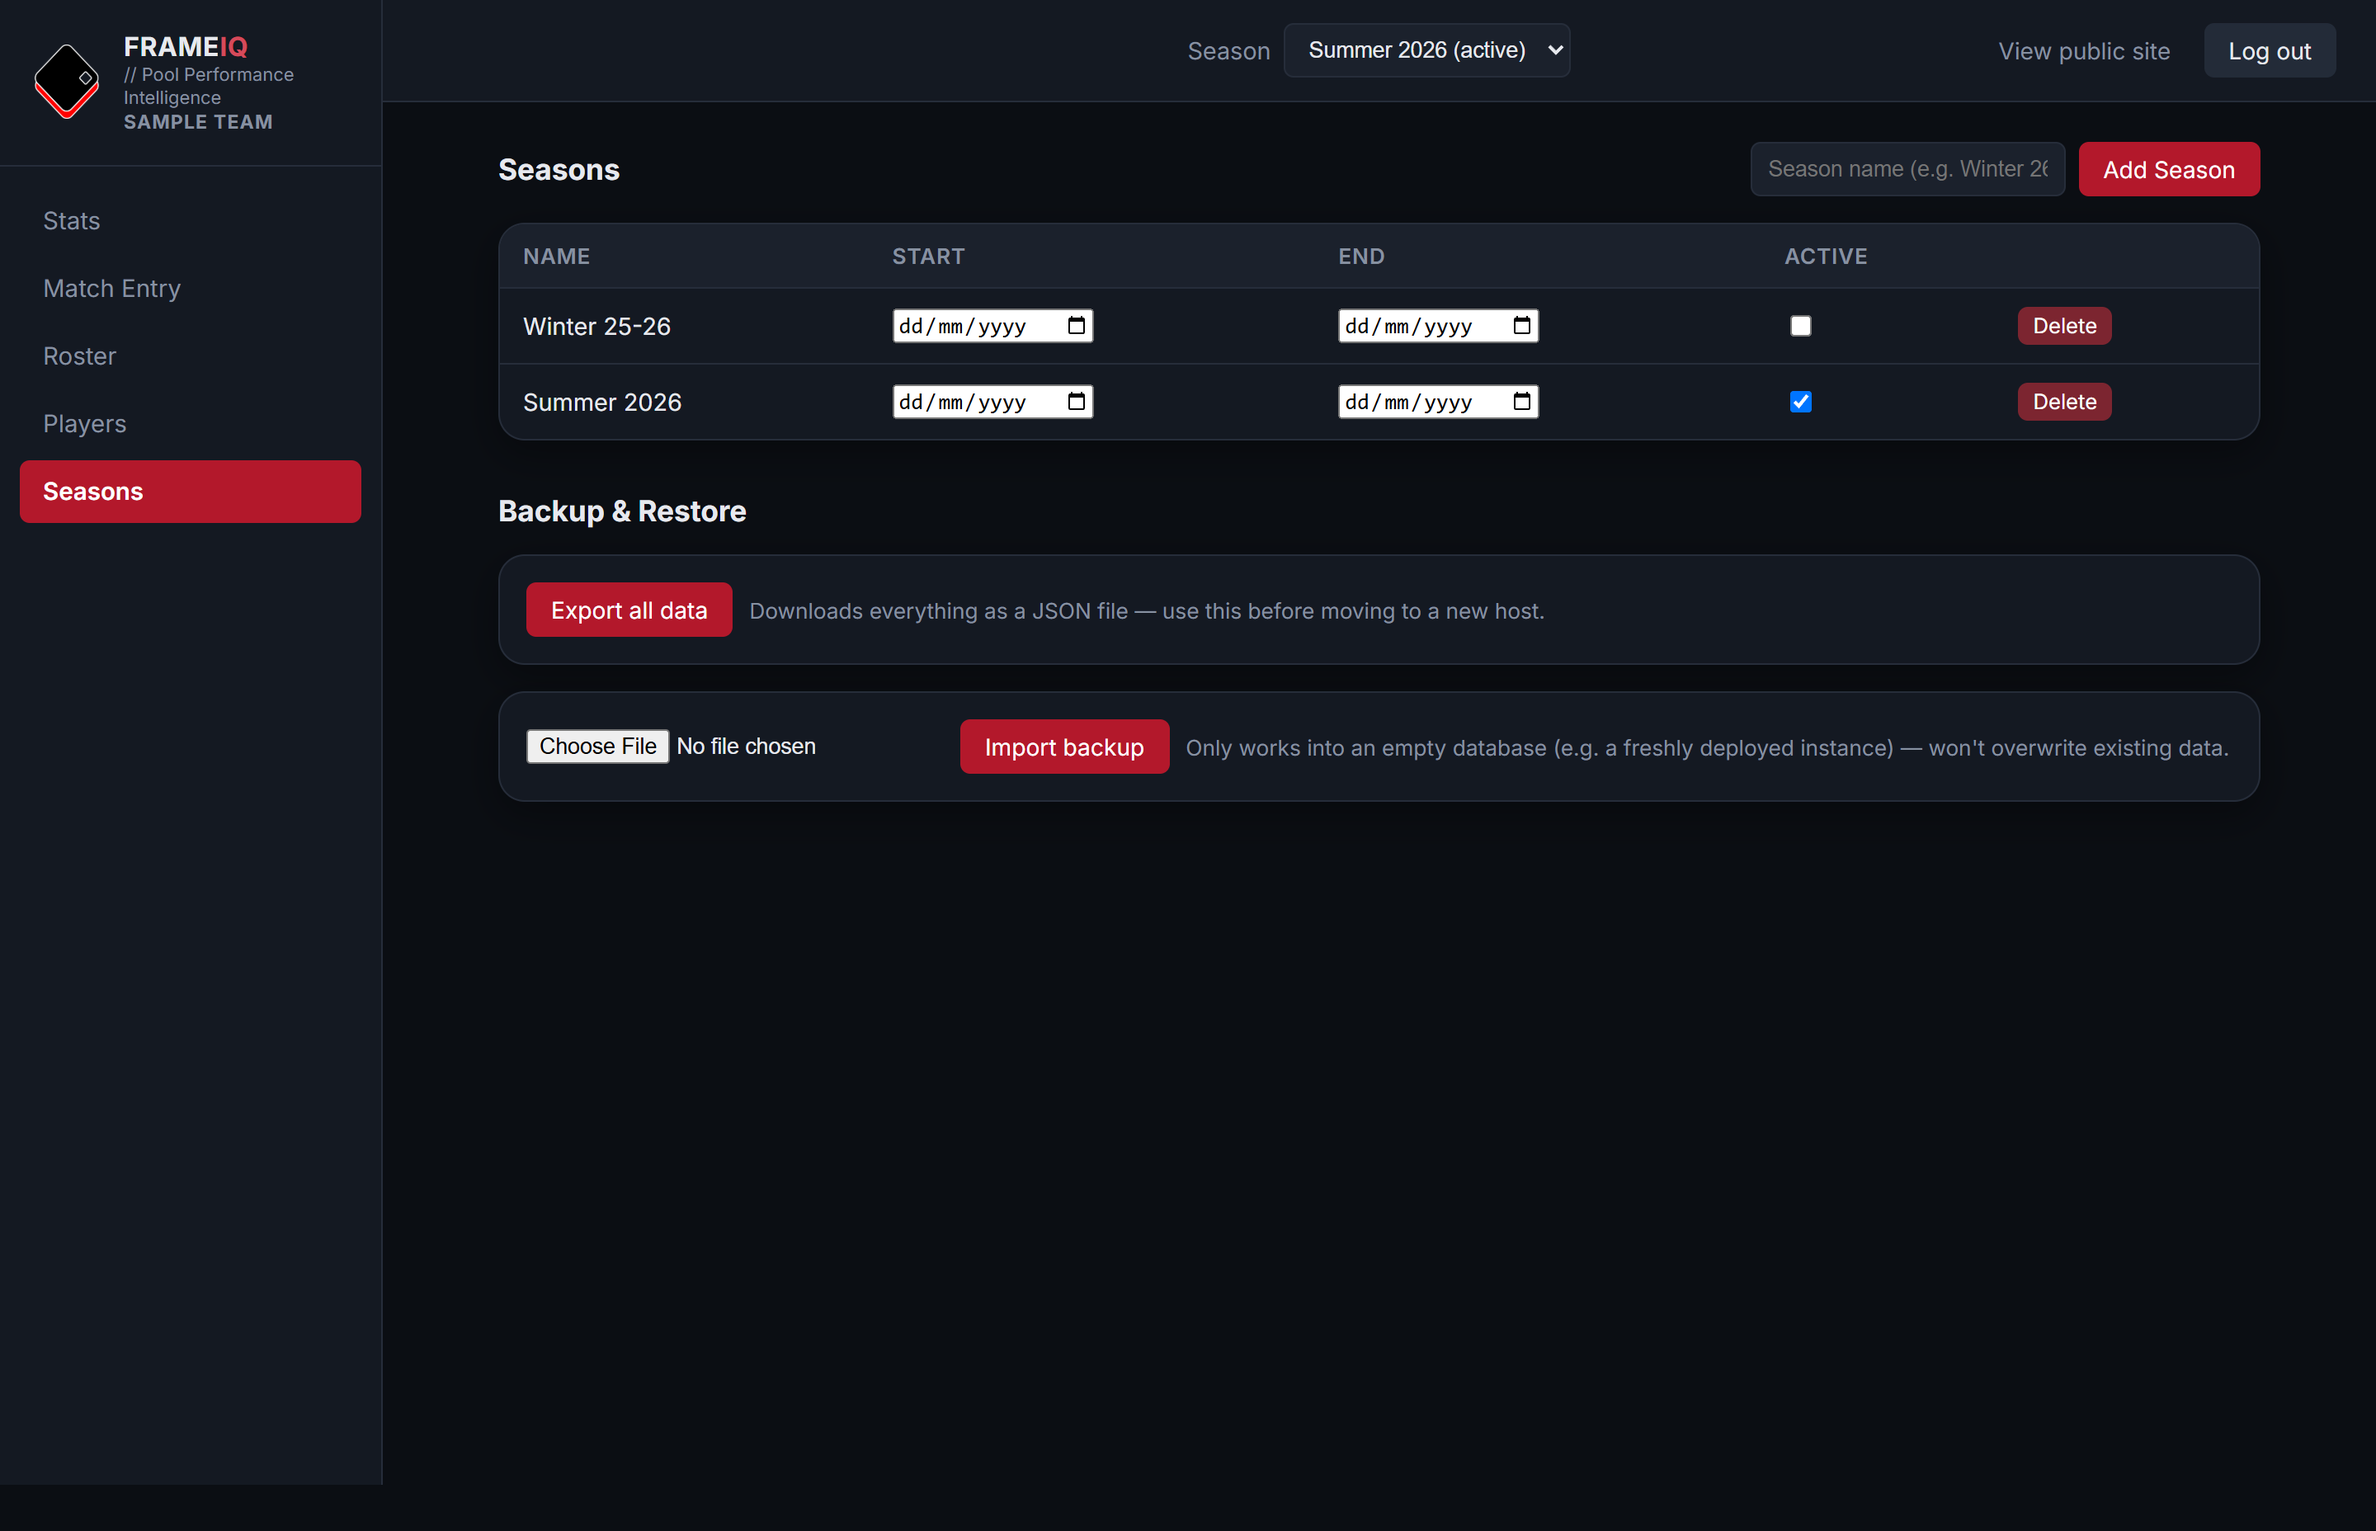
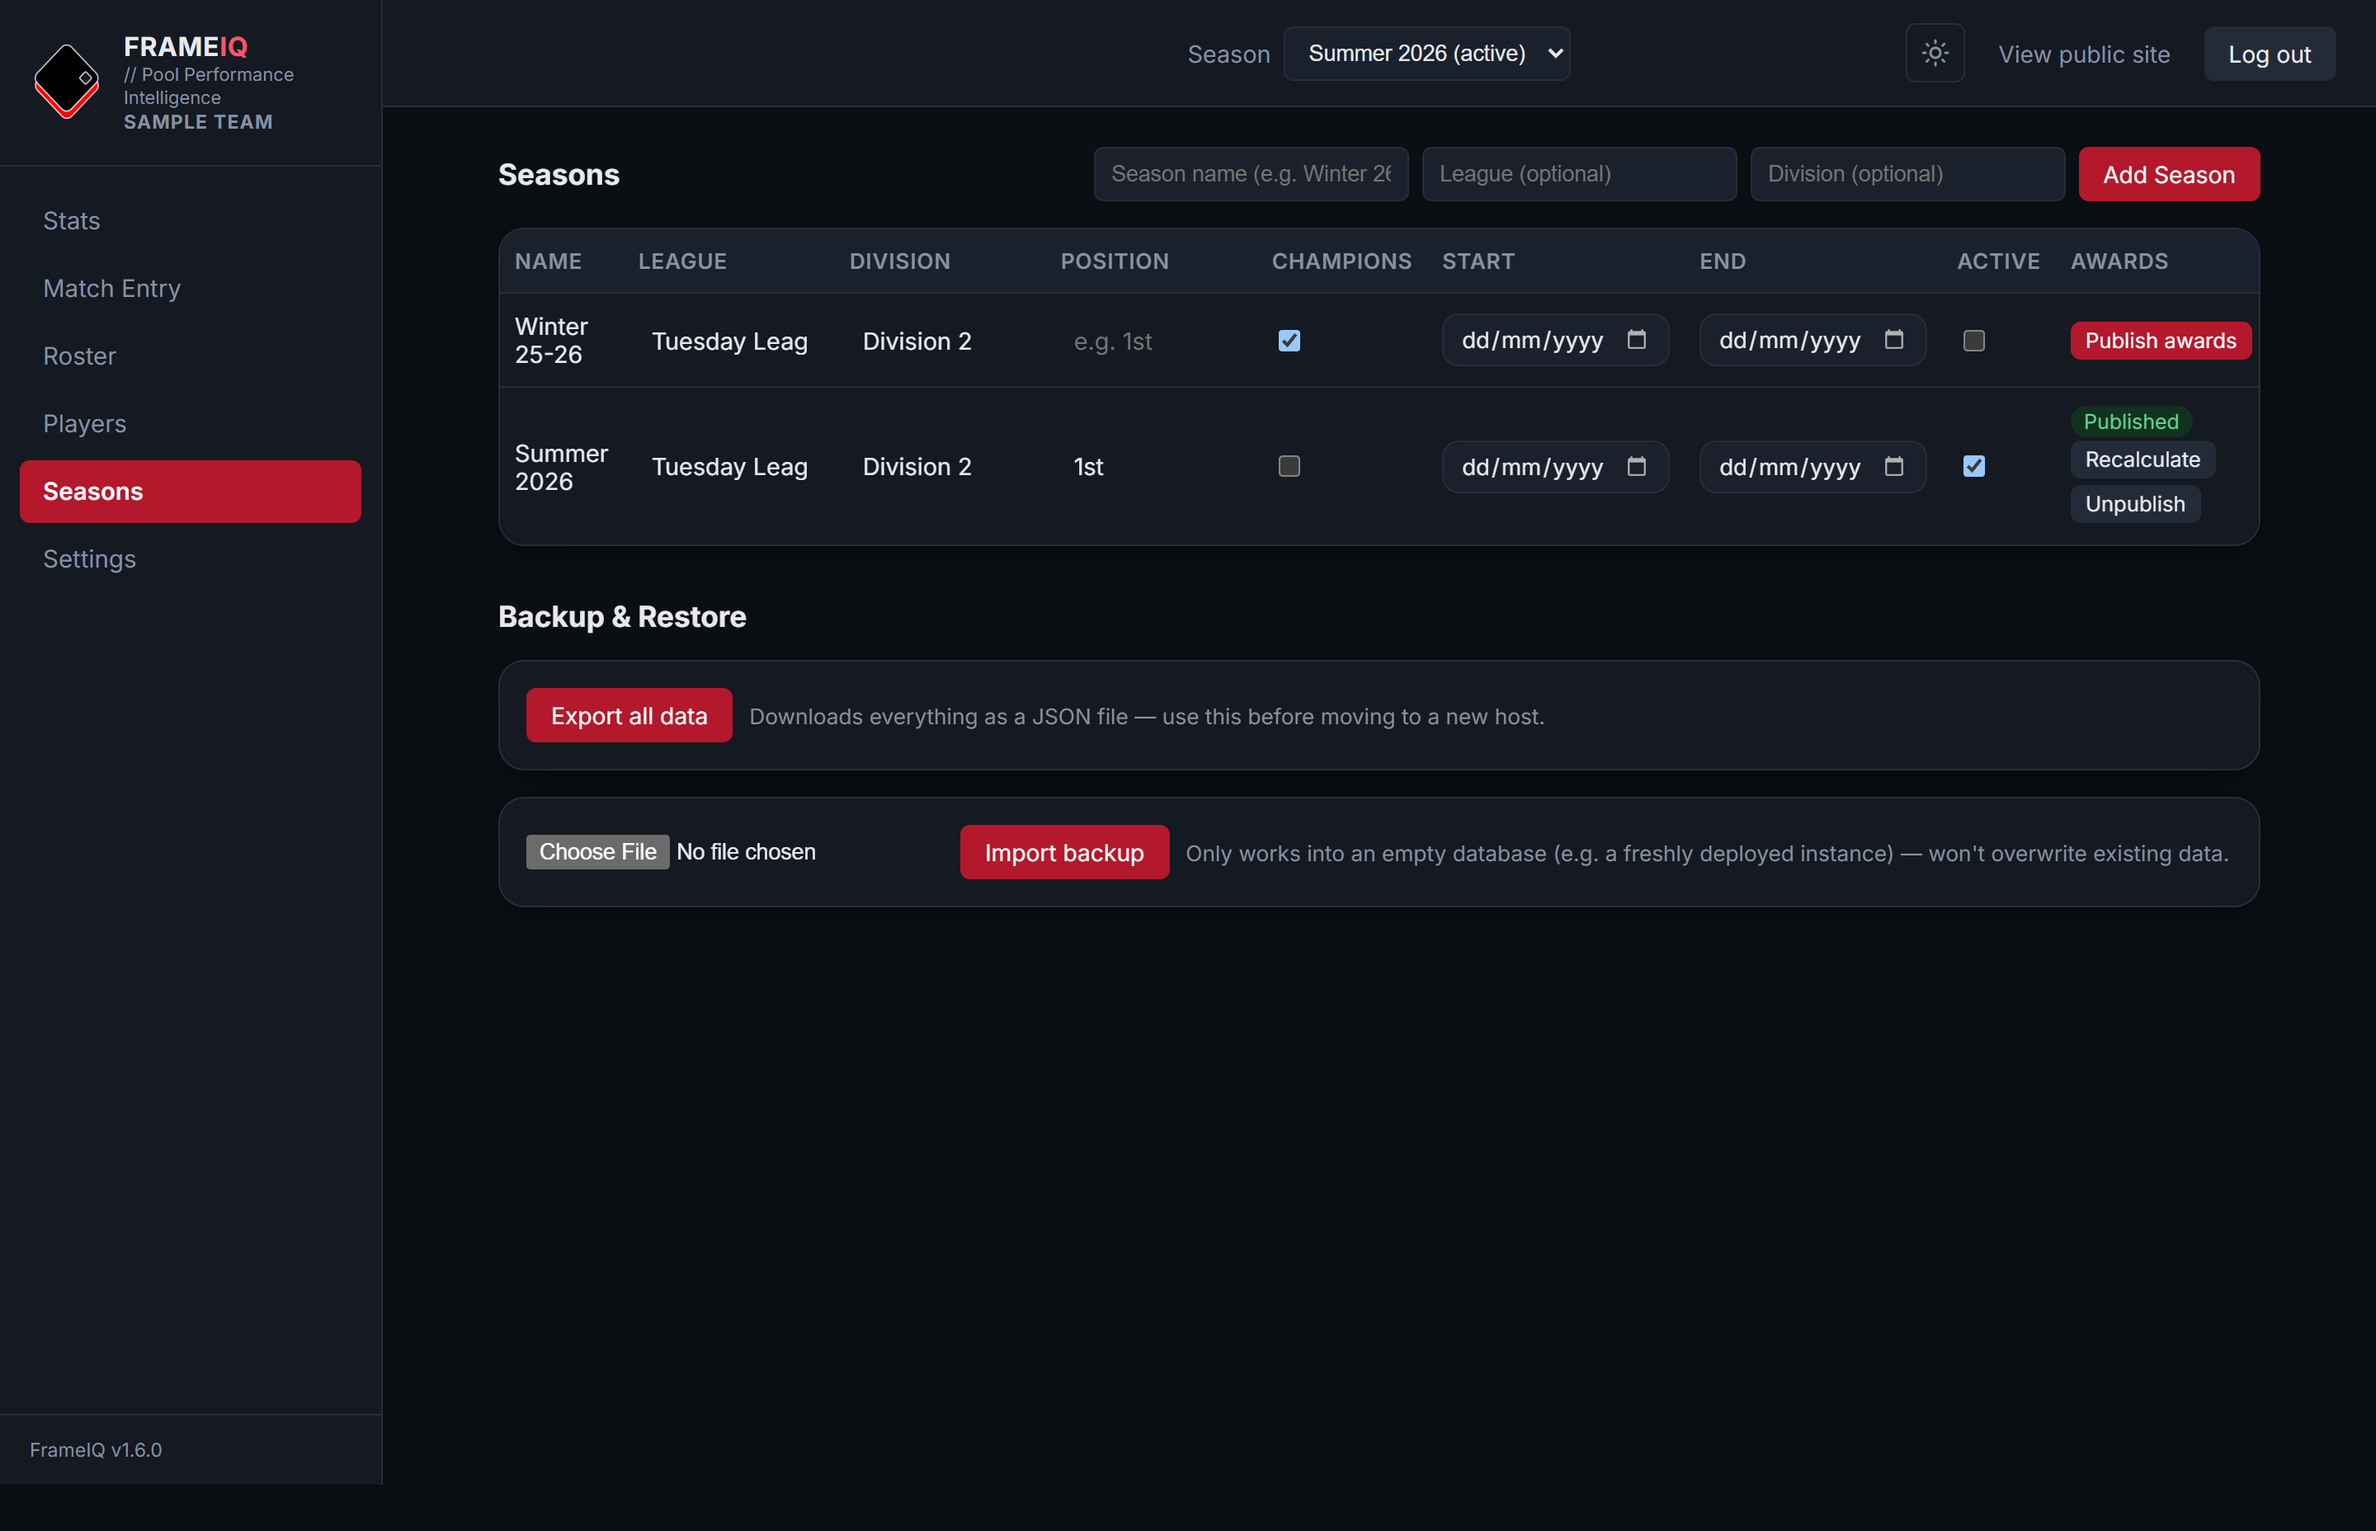
Refresh README screenshots to show awards, partnerships, fixtures and league details
New public-site screenshots (stats, league champions, results/fixtures, partnerships,
awards, player profile, light theme) and refreshed admin Stats, Match Entry and
Seasons screenshots. Roadmap records League champions.

diff --git a/README.md b/README.md
@@ -2,14 +2,41 @@
 
 A small self-hosted web app for tracking a pool/snooker team's players, weekly match results, and stats — a public results page for anyone to view, plus an admin area for managing everything. Ships pre-loaded with demo data (fictional players/results) so you can see it working before entering your own.
 
-## Admin screenshots
+## Screenshots
 
-The public results page is what you'd share with your league — everything below is the admin side you manage it from, gated behind your own password.
+### The public site
 
-**Team Stats overview** — live win rate, points leader, league points, and a full performance table with per-player form.
+This is the page you share with your league. The sun/moon button switches between dark and light themes, and each visitor's choice is remembered.
+
+**Team stats** — win rate, points leader, league points, the season's league and division under the heading, the team's current league position on the League Points card, and a full performance table with per-player form.
+![Public team stats](docs/screenshots/public-stats.png)
+
+**League champions** — tick **Champions** on a season and the League Points card reads LEAGUE CHAMPIONS in gold. Everyone who played that season also gets a League Champions badge on their profile.
+![League champions card](docs/screenshots/league-champions.png)
+
+**Results / Fixtures** — played results plus upcoming weeks you've added without a score, sortable by any column.
+![Results and fixtures](docs/screenshots/public-results.png)
+
+**Partnerships** — how each doubles pair has done together this season.
+![Doubles partnerships](docs/screenshots/public-partnerships.png)
+
+**Awards** — season awards, team awards, milestones reached and what's coming up. Season awards stay hidden until you publish them at the end of the season.
+![Season awards](docs/screenshots/public-awards.png)
+
+**Player profile** — badges, career totals, season-by-season stats, doubles partners and full match history.
+![Player profile](docs/screenshots/player-profile.png)
+
+**Light theme** — the same page in the light theme.
+![Light theme](docs/screenshots/public-light.png)
+
+### The admin area
+
+Everything below is the admin side you manage it from, gated behind your own password.
+
+**Team Stats overview** — the same view you share, with the admin menu alongside.
 ![Admin stats overview](docs/screenshots/admin-stats.png)
 
-**Match Entry** — log each week's date, venue, opponent, score and BYE weeks in a couple of clicks.
+**Match Entry** — log each week's date, venue, opponent, score and BYE weeks, record who won each player's singles and doubles, and (optionally) who partnered whom in the doubles. Weeks without a score show as upcoming fixtures.
 ![Admin match entry](docs/screenshots/admin-match-entry.png)
 
 **Roster** — set who's playing each season, their role (Captain/Vice-Captain/Member) and pick status (Regular/Sub).
@@ -18,7 +45,7 @@ The public results page is what you'd share with your league — everything belo
 **Players** — the permanent player list: original-member flag, joined/left dates, notes.
 ![Admin players](docs/screenshots/admin-players.png)
 
-**Seasons & backup** — manage seasons and export/import the full dataset as JSON.
+**Seasons & backup** — each season's league, division, current league position and Champions flag, publishing a season's awards, and exporting/importing the full dataset as JSON.
 ![Admin seasons](docs/screenshots/admin-seasons.png)
 
 Admin access sits behind a password screen:

diff --git a/ROADMAP.md b/ROADMAP.md
@@ -24,6 +24,7 @@ Ideas for future development. Not scheduled, not promises — just a running lis
   - [x] **Manual entry first:** an optional text field the admin fills in for each season, shown as extra detail on the League Points card (e.g. "Current league position: 1"). It belongs to the season because the position only means something within that season's league.
   - [ ] **Automatic updates later:** pull the position from a FrameIQ+ supported league so it stays up to date without the admin editing it.
 - [x] **League name and division** — an optional field on each season for the league and division the team plays in (e.g. "Tuesday League, Division 2"), set when creating or editing the season and shown on the public page. It is per season rather than a global setting because a team can move league or division between seasons.
+- [x] **League champions** — a Champions checkbox on each season. Ticking it turns the League Points card's position line into LEAGUE CHAMPIONS in gold and gives everyone who played that season a League Champions profile badge.
 - [ ] **CSV export per season** — separate from the full JSON backup (which is for migrating hosts); this is for dropping a season into a spreadsheet or printing for a clubhouse noticeboard.
 
 ## Quality of life
